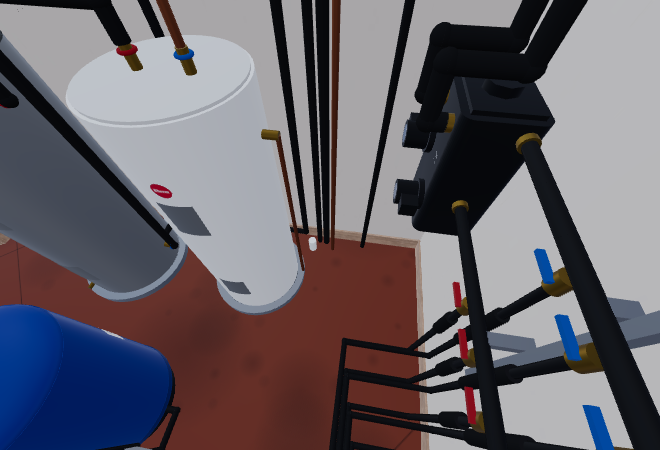
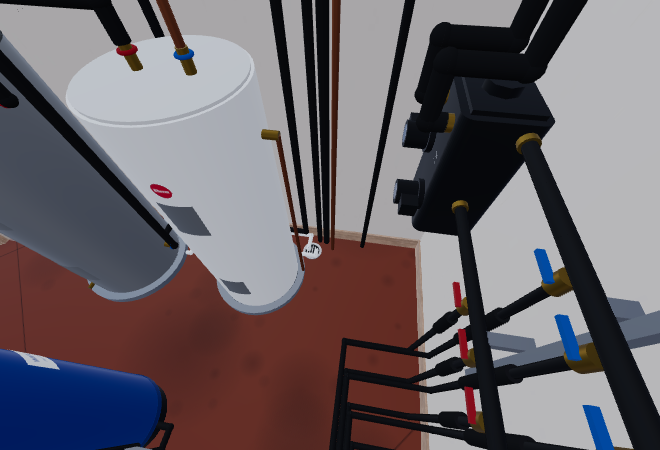
Utility room: floor drain with pan drains, slim tall pressure tank, softener space, under sink RO
Maxwell's answers on PR 34: the drain becomes a floor drain for the water heater's pan, a
slimmer tank is fine, plan a softener spot, and RO can go under the kitchen sink.

Claude-Session: https://claude.ai/code/session_01RiyETTGiM6LNU1dBhZZLxK

Changed region(s): [[0.0, 0.6533, 0.2727, 0.9956], [0.4545, 0.4978, 0.4848, 0.5911]]

diff --git a/site/equipment.js b/site/equipment.js
@@ -614,6 +614,29 @@ const BUILD = {
     cyl(g, 0.25, 8, blackMolded(), -3, h - 3.5, cz, 'x', 6);                                  // lamp cord
     return g;
   },
+  floor_drain(s) {                 // round floor drain: a low chrome ring and a slotted grate just proud of the slab
+    const [d] = s, g = new THREE.Group();
+    cyl(g, d / 2, 0.3, chrome(), 0, 0.15, d / 2, 'y', 32);
+    cyl(g, d / 2 - 0.8, 0.12, darkPlastic(), 0, 0.33, d / 2, 'y', 28);
+    for (let k = -2; k <= 2; k++) box(g, 0.35, 0.1, d - 2.4 - Math.abs(k) * 0.7, chrome(), k * 0.75, 0.42, d / 2);
+    return g;
+  },
+  softener_cabinet(s) {            // cabinet softener, shown as a reserved spot: grey box, salt lid on top at the front, control head at the back
+    const [w, h, d] = s, g = new THREE.Group();
+    const body = mat('softener reserved', 0xc9cbc6, 0.6, 0, { transparent: true, opacity: 0.55, depthWrite: false });
+    column(g, w, h - 2, d, body, 0, (h - 2) / 2, d / 2, 1.2);
+    box(g, w - 2, 1.2, d * 0.55, mat('salt lid', 0x7d8287, 0.5, 0.05), 0, h - 1.4, d * 0.68);
+    box(g, w * 0.6, 4, d * 0.32, blackMolded(), 0, h - 0.2, d * 0.2);
+    plate(g, w * 0.7, 3, labelMat('softener tag', 192, 64, word('SPACE RESERVED', '#2b2e31', 'bold 22px Helvetica, Arial, sans-serif')), 0, h * 0.6, d + 0.05);
+    return g;
+  },
+  ro_unit(s) {                     // tankless under sink reverse osmosis: tall white box, filter caps on top, small status ring on the front
+    const [w, h, d] = s, g = new THREE.Group();
+    column(g, w, h - 1, d, whitePlastic(), 0, (h - 1) / 2, d / 2, 1.2);
+    for (const z of [d * 0.25, d * 0.5, d * 0.75]) cyl(g, 1.6, 1, greyPlastic(), 0, h - 0.5, z, 'y', 18);
+    ring(g, 1.3, 0.2, mat('ro ring', 0x3aa7e6, 0.3, 0, { emissive: 0x3aa7e6, emissiveIntensity: 0.6 }), 0, h * 0.7, d + 0.1, 'z', 24);
+    return g;
+  },
   mixing_valve(s) {                // thermostatic mixing valve on the hot riser, tempered water out the top
     const g = new THREE.Group();
     box(g, 2.6, 3.2, 2.2, brass(), 0, 0, 0);

diff --git a/model/make_equipment.py b/model/make_equipment.py
@@ -275,15 +275,16 @@ Y_COLD, Y_WALL = US - 0.39, US - 0.19              # cold line behind the prehea
 Z_COLD, Z_HOT, Z_RC, Z_WELL = 7.4, 7.0, 7.2, 7.9   # overhead levels, all under the 9 ft ceiling and clear of a 6 ft 6 in head
 WELL_X = UW + 1.5                                  # well line up through the slab, south wall (Maxwell, 11/19/2026)
 HL_X = UW + 2.5                                    # house hot water lines and the drain, 1 ft further east (Maxwell, 11/19/2026)
-X_HC, X_HH, X_HR, X_DR = HL_X - 0.22, HL_X - 0.03, HL_X + 0.15, HL_X + 0.3     # house cold, house hot, recirculation back, drain
+X_HC, X_HH, X_HR = HL_X - 0.22, HL_X - 0.03, HL_X + 0.15                       # house cold, house hot, recirculation back
+X_DR, Y_DR = HL_X + 0.3, US - 0.54                 # floor drain, just in front of the lines
 HOT, HOT_R = 1.9, 1.5                              # 3/4 in and 1/2 in copper with pipe insulation, outside diameter
 # Well water treatment on the north wall, west to east: UV, carbon, sediment, spin down screen, tank tee, pressure tank.
 LN = UN + 0.33                                     # pipe lane on the north wall, through the filter heads
 HEAD_Z = 4.4                                       # filter heads (ports) about 4-1/2 ft up, easy to reach for cartridge changes
 UV_X, CB_X, SD_X, SP_X = 2.78, 3.5, 4.2, 4.8
 TT_X = 5.11                                        # tank tee
-PT_D, PT_H = 22.0, 39.0                            # pressure tank, in
-PT_X = 6.15
+PT_D, PT_H = 16.0, 62.0                            # pressure tank, in: a slim tall one keeps the walkway past the tanks about 22 in wide
+PT_X = 5.95
 PT_CY = UN + (1 + PT_D / 2) / 12
 UV_Z, UV_H = 2.55, 42.0
 def dhw(id, name, dia, mat, points, model, notes, specs=None, info_of=None, system="plumbing.dhw", category="Hot water"):
@@ -335,11 +336,16 @@ dhw("dhw_recirc", "Hot water recirculation return", HOT_R, "foam",
                                  "comes down the south wall between the two tanks through the pump at chest height, and tees into the water heater's cold inlet pipe. "
                                  "Which of the lines in the slab is the return is ASSUMED. A check valve and a timer or demand control are ASSUMED.",
                                  "Insulated like the hot line: a recirculation loop is hot whenever it runs, so bare pipe would give that heat away all day."])
-runs.append(dict(id="utility_drain", name="Utility room drain", category="Well water", system="plumbing.drain", dia=2.38, mat="pvc",
-    points=[[X_DR, Y_COLD - 0.05, 0.0], [X_DR, Y_COLD - 0.05, 0.4]],
-    info=dict(model="2 in PVC drain stub through the slab", specs=[["Where", "South wall, about 2-1/2 ft off the west wall, next to the house hot lines (Maxwell, 11/19/2026)"]],
-              notes=["Use ASSUMED: the relief valves, drain pans, spin down flush and condensate would all run here, and a water softener or iron filter would need it for backwash. "
-                     "It is drawn as a short open stub; the plumber sets the standpipe, trap and air gap."])))
+# Pan drains (Maxwell, 11/19/2026: the drain is a floor drain for the water heater's pan). Both tanks' pans drain to it and end
+# an inch above the grate so there is an air gap. The water heater's line runs behind the preheat tank, under the desuperheater pipe.
+PAN_Z = 0.1
+WH_PAN = WH_X - (WR * 12 + 2) / 12
+dhw("pan_drain_wh", "Drain pan lines", 1.32, "pvc",
+    [[WH_PAN + 0.02, WH_CY + 0.3, PAN_Z], [WH_PAN - 0.1, WH_CY + 0.3, PAN_Z], [WH_PAN - 0.1, US - 0.12, PAN_Z], [X_DR + 0.1, US - 0.12, PAN_Z], [X_DR + 0.1, Y_DR, PAN_Z], [X_DR + 0.06, Y_DR, PAN_Z + 0.04]],
+    "1 in PVC from each tank's drain pan",
+    ["The water heater's pan drains behind the preheat tank to the floor drain, about 6 ft. The preheat tank's pan drains straight to it. Both end above the grate for an air gap. "
+     "The relief valves (T&P) on both tanks can discharge here too. Route ASSUMED."])
+dhw("pan_drain_ph", None, 1.32, "pvc", [[PH_X - 0.83, PH_Y + 0.62, PAN_Z], [X_DR - 0.12, PH_Y + 0.62, PAN_Z], [X_DR - 0.12, Y_DR, PAN_Z + 0.04]], None, None, info_of="pan_drain_wh")
 items += [
  dict(id="recirc_pump", name="Hot water recirculation pump", category="Hot water", system="plumbing.dhw", room="Utility", layer="mechanical",
       builder="circ_pump", size=[5, 5, 5], at=[X_RC, Y_WALL, 3.9], facing=90,
@@ -352,15 +358,21 @@ items += [
       builder="mixing_valve", size=[3, 3, 3], at=[GAP_X, WHOT_Y, 6.3], facing=0,
       info=dict(model="3/4 in thermostatic mixing valve", specs=[["Why", "Lets both tanks store water hotter for more capacity while the taps get a safe 120 F"]],
                 notes=["Its cold side tees off the cold line; that small tee is not drawn.", APPROX])),
+ dict(id="floor_drain", name="Floor drain", category="Hot water", system="plumbing.drain", room="Utility", layer="mechanical",
+      builder="floor_drain", size=[6, 0.5, 6], at=[X_DR, Y_DR + 0.25, 0], facing=0,
+      info=dict(model="Floor drain with a round grate, about 4 in", specs=[["Where", "South wall, about 2-1/2 ft off the west wall, beside the house hot lines (Maxwell, 11/19/2026)"],
+                                                                         ["Takes", "Both tanks' drain pans and relief valves, the spin down flush, a softener's backwash if one goes in"]],
+                notes=["Maxwell (11/19/2026): the drain line coming up here will become a floor drain and pan drain for the water heater. Trap primer, size and exact spot are the plumber's.", APPROX])),
  # ---- well water: pressure tank and treatment, north wall
  dict(id="pressure_tank", name="Well pressure tank", category="Well water", system="plumbing.well", room="Utility", layer="mechanical",
       builder="pressure_tank", size=[PT_D, PT_H], at=[PT_X, UN + 0.02, 0], facing=180,
-      info=dict(model="Diaphragm well tank, about 44 gal (Amtrol Well-X-Trol WX-250 class)", price="Included in Crabtree's $4,900 pump system (estimate 2479, approved 3/11/2026)",
-        specs=[["Pump", "1/2 HP submersible with a pressure switch (Crabtree estimate 2479)"], ["Size", "About 22 in across and 39 in tall"],
+      info=dict(model="Slim diaphragm well tank, about 44 gal (generic tall model)", price="Included in Crabtree's $4,900 pump system (estimate 2479, approved 3/11/2026)",
+        specs=[["Pump", "1/2 HP submersible with a pressure switch (Crabtree estimate 2479)"], ["Size", "About 16 in across and 62 in tall"],
                ["Pressure", "Usually a 40/60 PSI switch with the tank pre-charged to 38 PSI"], ["Connection", "1 in at the bottom, through the tank tee"]],
         links=[["Crabtree Drilling", "https://www.crabtreedrilling.com"]],
         notes=["Crabtree's approved estimate lists a 1/2 HP submersible pump system 'including a pressure tank, pipe, wire, fittings, ditch digging and labor' but not the tank model or size. "
                "The size here is ASSUMED: a 44 gal tank is a common match for a 1/2 HP pump and gives about 12 gal between pump starts. "
+               "A slim, tall tank was picked over the usual 22 in one so the walkway past the water tanks stays about 22 in wide (Maxwell, 11/19/2026: slimmer is fine, there is height to use). "
                "The quote also offered a 1 HP constant pressure system for $5,800 as an alternate; the approved total ($10,919) has the 1/2 HP system.",
                "Well (same estimate): 6 in PVC casing, estimated 100 ft, $43/ft past that.", APPROX],
         placement="North wall of the utility room, east of the filters and clear of the hall door's swing. The pump is down the well, so the only noise here is the pressure switch clicking.")),
@@ -384,6 +396,21 @@ items += [
       builder="uv_system", size=[8, UV_H, 6], at=[UV_X, UN, UV_Z], facing=180,
       info=dict(model="Whole house UV sterilizer, about 12 gpm (Viqua VH410 class, generic)", specs=[["Power", "120 V outlet nearby"], ["Lamp", "Change once a year"], ["Order", "Last, after the filters, so the water it sees is clear"]],
                 notes=["Generic placeholder, not in Crabtree's quote. Common on private wells to kill bacteria; the county may want a bacteria test either way.", APPROX])),
+ dict(id="softener_space", name="Water softener (space reserved)", category="Well water", system="plumbing.well", room="Utility", layer="mechanical",
+      builder="softener_cabinet", size=[14, 44, 17.5], at=[UE - 0.62, US - 0.02, 0], facing=0,
+      info=dict(model="Space for a cabinet softener, about 14 W x 17-1/2 D x 44 H in (generic, not decided)",
+        specs=[["Status", "Not decided. Space kept so one can go in later (Maxwell, 11/19/2026)"], ["Needs", "120 V outlet, the floor drain for backwash (about 8 ft of 1/2 in tubing), and the treated cold line"],
+               ["Would sit", "After the filters, before the preheat tank, with a bypass valve"]],
+        notes=["Southeast corner, south of the hall door, so the door still opens fully. A cabinet unit (resin and salt in one box) fits; a twin tank one does not.",
+               "Whether it is needed depends on the water test (hardness and iron). Piping to it is not drawn.", APPROX])),
+ dict(id="ro_system", name="Reverse osmosis drinking water", category="Kitchen appliance", system="plumbing.well", room="Kitchen", layer="appliances",
+      builder="ro_unit", size=[5.7, 18, 17.6], at=[10.85, 51.42, 0.34], facing=0,
+      info=dict(model="Tankless under sink reverse osmosis with its own faucet (generic, Waterdrop G3 class)",
+        specs=[["Size", "About 5.7 W x 18 H x 17.6 D in, stands beside the disposal"], ["Needs", "Cold line tee, a drain saddle on the sink drain, and an outlet for the pump"],
+               ["Faucet", "Small RO faucet in a hole beside the main faucet"]],
+        notes=["Under the kitchen sink rather than whole house: the utility room has no room left, and you only need RO water for drinking and cooking (Maxwell, 11/19/2026: under the sink is fine).",
+               "Not picked yet.", APPROX],
+        placement="Inside the sink base, right side, behind the right door.")),
 ]
 # Desuperheater (Maxwell, 11/18/2026). The preheat tank stands just east of the heat pump's hot water connections, so the two
 # insulated 3/4 in lines step sideways off the ports and drop straight through the deck into the lane behind the tank.

diff --git a/tools/pipe_clash.py b/tools/pipe_clash.py
@@ -87,7 +87,7 @@ def item_box(it):
     s, b = it["size"], it["builder"]
     if b in ("hpwh", "storage_tank"): lo, hi = [-s[0] / 2, 0, 2], [s[0] / 2, s[1], 2 + s[0]]
     elif b == "geo_horizontal": lo, hi = [-s[2] / 2, 0, 0], [s[2] / 2, s[1], s[0]]
-    elif b in ("erv", "flow_center", "big_blue", "spin_down", "uv_system"): lo, hi = [-s[0] / 2, 0, 0], [s[0] / 2, s[1], s[2]]
+    elif b in ("erv", "flow_center", "big_blue", "spin_down", "uv_system", "softener_cabinet"): lo, hi = [-s[0] / 2, 0, 0], [s[0] / 2, s[1], s[2]]
     elif b == "pressure_tank": lo, hi = [-s[0] / 2, 0, 1], [s[0] / 2, s[1], 1 + s[0]]
     elif b == "expansion_tank": lo, hi = [-s[0] / 2, -3 - s[1], -s[0] / 2], [s[0] / 2, -3, s[0] / 2]
     else: return None
